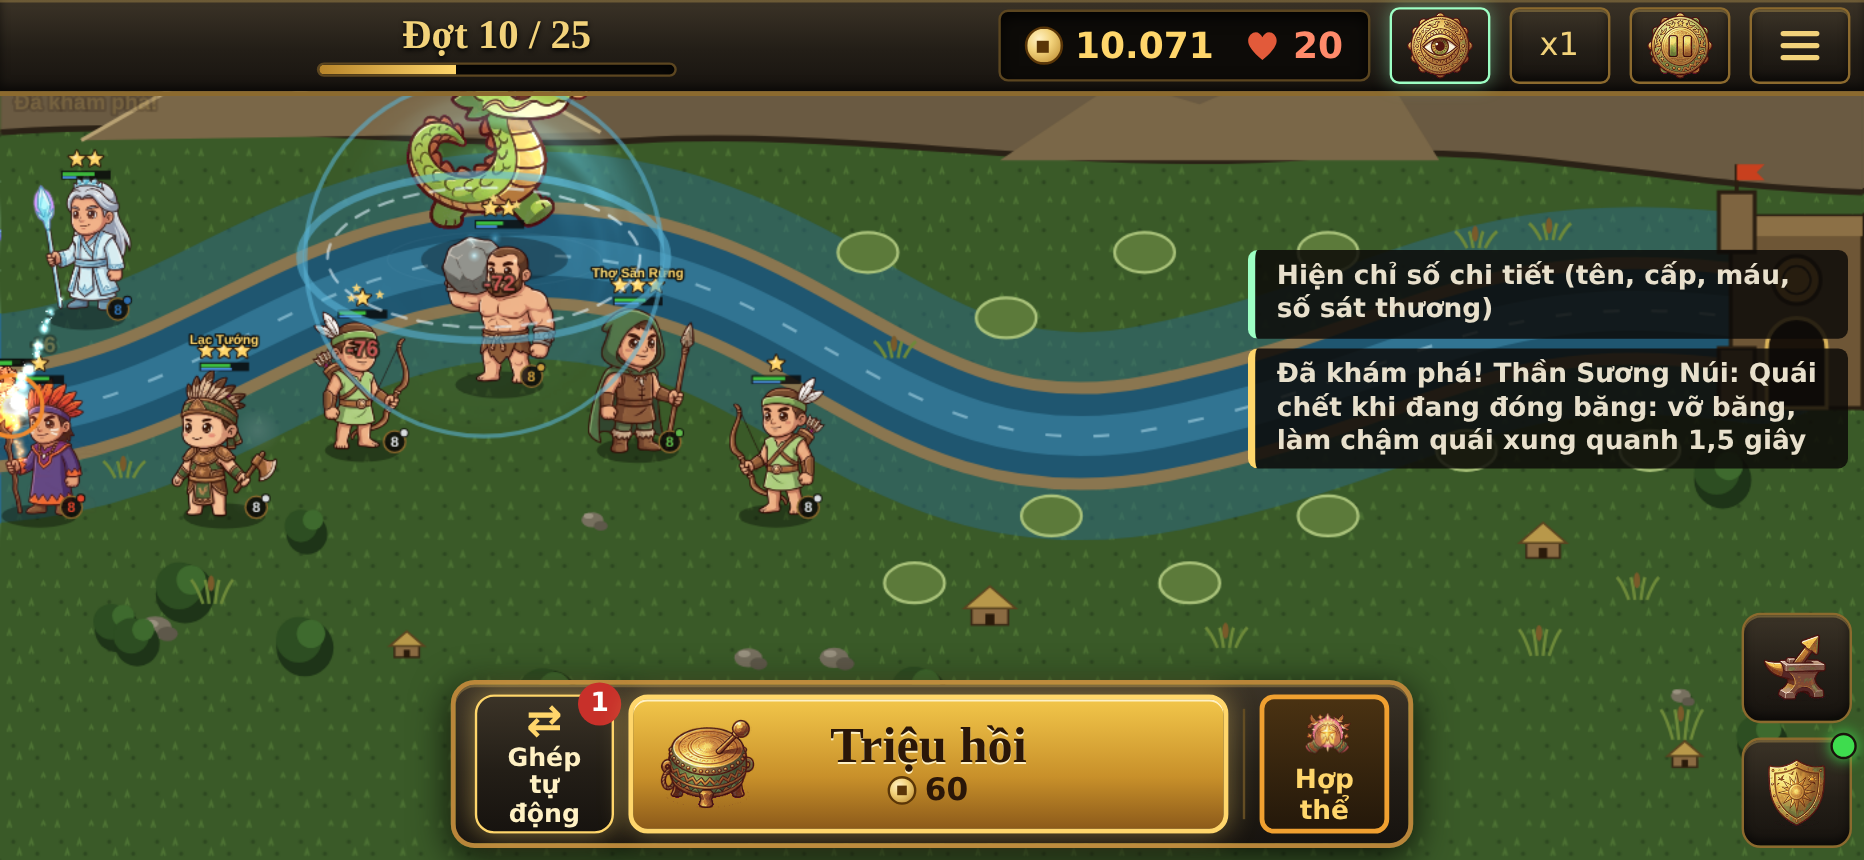
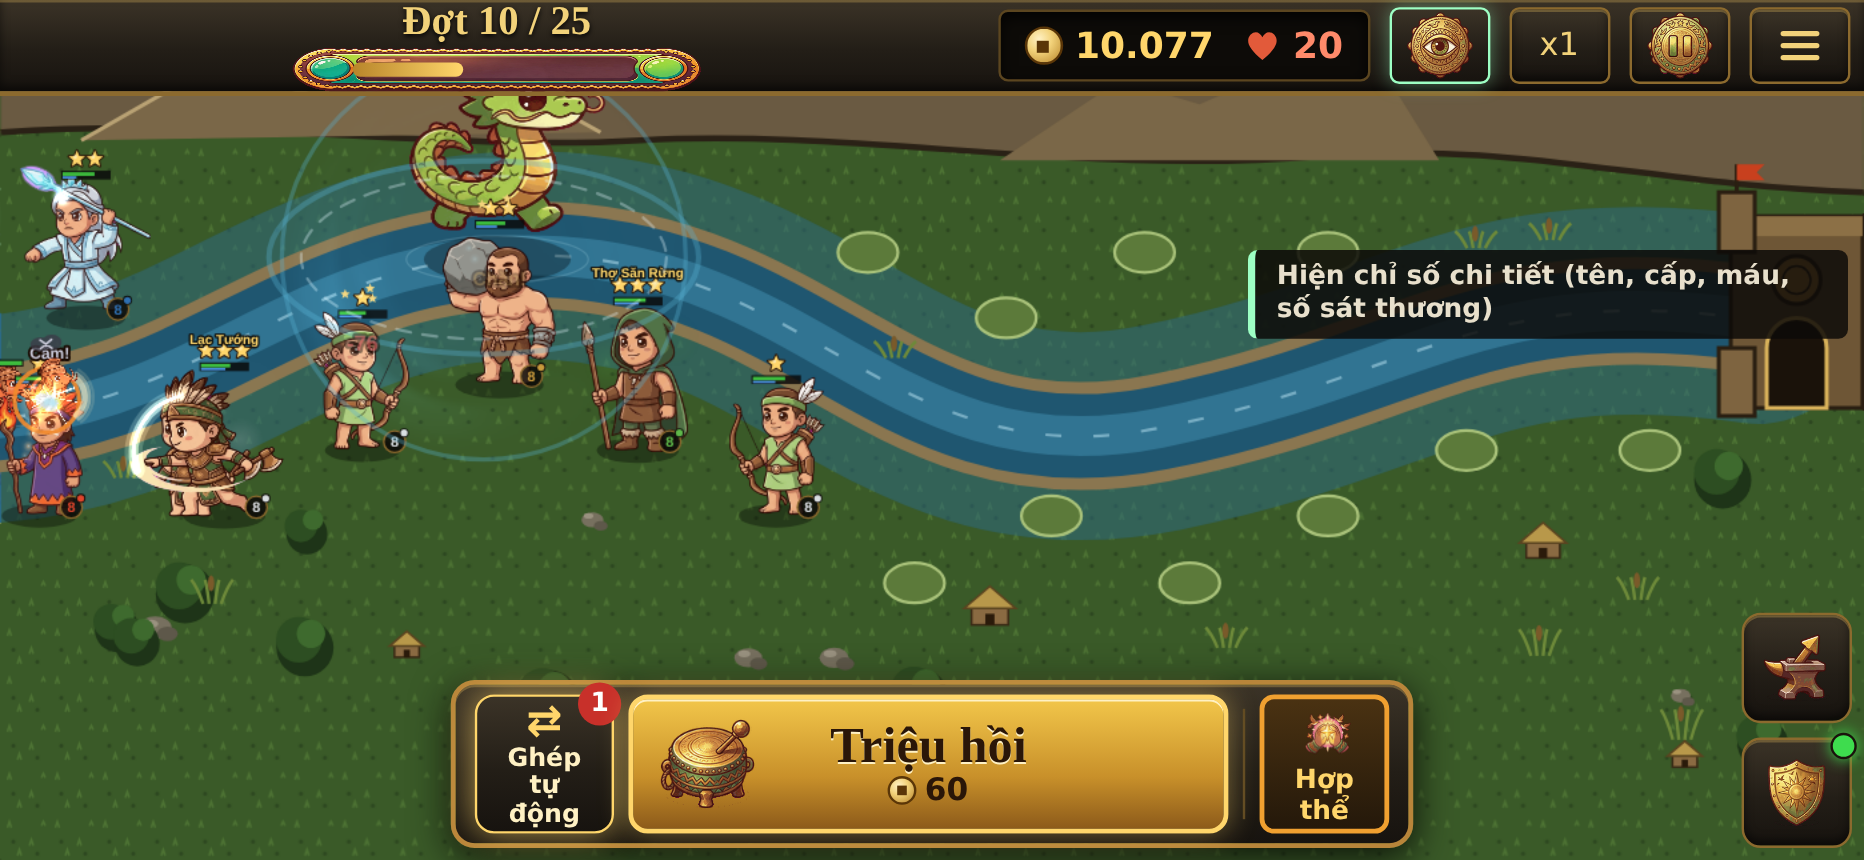
v127: drum-style UI frames — menu key art, main button, toggles, wave bar, player plate, mode cards, hero portrait frame
Claude-Session: https://claude.ai/code/session_017MbeA6iwMaSCfNrZ9EBWDN

Changed region(s): [[0.1245, 0.0, 0.3734, 0.5442], [0.6534, 0.393, 0.9957, 0.5442], [0.0, 0.1814, 0.1556, 0.6047]]

diff --git a/js/ui.js b/js/ui.js
@@ -217,7 +217,7 @@ class UI {
     game.known = new Set(this.save.secrets || []);
     this.bind();
     this.buildSummon();
-    $('#menu-art').innerHTML = svgI(sceneArt('menu'));
+    $('#menu-art').innerHTML = `<img class="keyart" src="${assetSrc('ui/nen-menu.jpg')}" alt="" onerror="this.outerHTML=''">` + svgI(sceneArt('menu'));
     $('#rotate-art').innerHTML = sceneArt('rotate');
     $('#loading').hidden = true;
     this.showMenu();
@@ -392,7 +392,7 @@ class UI {
     const short = (n) => (n >= 1000 ? (n / 1000).toFixed(n >= 10000 ? 0 : 1).replace('.', ',') + 'k' : n);
     $('#menu-res').innerHTML = `<span title="Ngân khố: bạc thưởng sau mỗi trận, dùng mua tướng Tím / Vàng, Thần Khí, đồ trước trận — không dùng được trong trận"><small class="pr-l">Ngân khố</small>${bac(1)} <b style="color:#E4ECF4">${fmt(s.kho || 0)}</b></span>`;
     if (0) $('#menu-res').innerHTML = `<span title="Tổng vàng đã kiếm qua mọi trận (vàng trong trận luôn bắt đầu từ ${CONFIG.startGold})"><small class="pr-l">Tổng vàng đã kiếm</small>${coin(1)} ${short(s.lifeGold)}</span><span title="Linh Chi đã hái">🌿 ${short(s.lifeHerbs)}</span><span title="Ngân khố: vàng thưởng sau mỗi trận thắng, dùng mua đồ / tướng trước trận"><small class="pr-l">Ngân khố</small>${coin(1)} <b style="color:#FFD66B">${fmt(s.kho || 0)}</b></span>`;
-    $('#menu-art').innerHTML = svgI(sceneArt('menu'));
+    $('#menu-art').innerHTML = `<img class="keyart" src="${assetSrc('ui/nen-menu.jpg')}" alt="" onerror="this.outerHTML=''">` + svgI(sceneArt('menu'));
     const g0 = this.game, live = g0.started && !g0.over && (!g0.won || g0.endless);
     const run = !live && s.run;
     const lvN = live ? g0.level : run ? run.level : 0, wN = live ? g0.wave : run ? run.wave : 0, endl = live ? g0.endless : run && run.endless;
@@ -679,10 +679,10 @@ class UI {
     $('#modes').innerHTML = `<div class="screen" style="z-index:auto">
       <div class="scr-head metal"><button class="xbtn metal" data-act="mode-close" aria-label="Quay lại">${ICON.back}</button><h1 class="ttl">Chọn chế độ</h1><div class="sp"></div></div>
       <div class="md-body">
-        <button class="md-card metal" data-act="mode-pick" data-k="camp"><span class="md-ic">⚔</span><b>Phó Bản</b>
+        <button class="md-card metal" data-act="mode-pick" data-k="camp" style="background-image:linear-gradient(90deg,#1A1008f0 35%,#1A100855),url('${assetSrc('maps/nen-thanh.jpg')}')"><span class="md-ic"><img src="${assetSrc('ui/ui-menu-1-1.png')}" alt="⚔"></span><b>Phó Bản</b>
           <small>Chiến dịch theo chương truyền thuyết. Mỗi ải số đợt cố định, có boss, đạt 1–3 sao, thắng nhận Ngân khố.</small>
           <span class="md-st">★ ${total} / ${LEVELS.length * 3} · đã mở ${s.unlocked}/${LEVELS.length} ải</span></button>
-        <button class="md-card metal endl" data-act="mode-pick" data-k="endless"><span class="md-ic">♾</span><b>Vô Tận</b>
+        <button class="md-card metal endl" data-act="mode-pick" data-k="endless" style="background-image:linear-gradient(90deg,#0A1A24f0 35%,#0A1A2455),url('${assetSrc('maps/nen-bien.jpg')}')"><span class="md-ic"><img src="${assetSrc('ui/ui-tran-1-3.png')}" alt="♾"></span><b>Vô Tận</b>
           <small>Chọn một bản đồ đã mở, giữ thành mãi mãi. Quái mạnh dần, boss mỗi 10 đợt, đổi bộ quái liên tục. Đua bảng xếp hạng.</small>
           <span class="md-st">Kỷ lục: đợt ${best}</span></button>
       </div></div>`;
@@ -777,7 +777,7 @@ class UI {
         ${this.cloudRow()}
         <div class="tg metal"><div><b>Xoá tiến trình</b><small>Xoá sao và các ải đã mở trên máy này</small></div>
           <button class="btn metal" style="margin-left:auto;color:#FFB08A;border-color:#C8401E" data-act="wipe">${this.wipeArmed ? 'Bấm lần nữa để xoá' : 'Xoá'}</button></div>
-        <div class="note" style="text-align:center">Núi Cao Nước Dâng · Phiên bản 126 · ${typeof CLOUD !== 'undefined' && CLOUD.enabled ? 'Tiến trình lưu trên máy và đám mây' : 'Tiến trình lưu trên trình duyệt của bạn'}</div>
+        <div class="note" style="text-align:center">Núi Cao Nước Dâng · Phiên bản 127 · ${typeof CLOUD !== 'undefined' && CLOUD.enabled ? 'Tiến trình lưu trên máy và đám mây' : 'Tiến trình lưu trên trình duyệt của bạn'}</div>
       </div></div>`;
   }
 
@@ -1077,7 +1077,7 @@ class UI {
     const total = g.levelWaves;
     this.setText('#tb-wave', (g.endless ? `Đợt ${g.wave} · Vô tận` : `Đợt ${g.wave} / ${total}`) + (g.hard ? ' · 🔥 Khó' : ''));
     const prog = g.waveActive && g.waveTotal ? 1 - (g.spawnQueue.length + g.enemies.length * 0.5) / (g.waveTotal * 1.5) : 0;
-    $('#tb-fill').style.width = `${Math.max(0, Math.min(1, ((g.wave - 1 + Math.max(0, prog)) / total))) * 100}%`;
+    $('#tb-fill').style.width = `${Math.max(0, Math.min(1, ((g.wave - 1 + Math.max(0, prog)) / total))) * 71}%`;
     this.setText('#tb-gold b', fmt(g.gold));
     $('#tb-gold').classList.toggle('kho', !!this.prepForge);     // v95: đang tiêu Ngân khố (bạc), không phải vàng trận
     this.setText('#tb-lives b', g.lives);

diff --git a/index.html b/index.html
@@ -13,7 +13,7 @@
   <title>Núi Cao Nước Dâng</title>
   <link rel="preconnect" href="https://fonts.googleapis.com">
   <link rel="stylesheet" href="https://fonts.googleapis.com/css2?family=Alegreya+SC:wght@700;800&family=Alegreya+Sans:wght@400;500;700;800&display=swap">
-  <link rel="stylesheet" href="css/style.css?v=126">
+  <link rel="stylesheet" href="css/style.css?v=127">
 </head>
 <body>
 <!--BODY-->
@@ -95,7 +95,7 @@
           <button id="btn-settings" class="mc-btn metal"><svg viewBox="0 0 20 20"><circle cx="10" cy="10" r="3" fill="none" stroke="currentColor" stroke-width="1.8"/><path d="M10 2v3M10 15v3M2 10h3M15 10h3M4.3 4.3l2.1 2.1M13.6 13.6l2.1 2.1M4.3 15.7l2.1-2.1M13.6 6.4l2.1-2.1" stroke="currentColor" stroke-width="1.8"/></svg>Cài Đặt</button>
           <div class="mc-subs"><button id="btn-menu-codex" class="mc-sub">📖 Bách khoa</button><button id="btn-ranks" class="mc-sub">🏆 Xếp hạng</button></div>
         </nav>
-        <div class="ver">Phiên bản 126</div>
+        <div class="ver">Phiên bản 127</div>
       </div>
 
       <div id="story" class="overlay" hidden></div>
@@ -131,19 +131,19 @@
       el.textContent = 'Lỗi: ' + (e.message || e.error) + (e.filename ? ' (' + e.filename.split('/').pop() + ':' + e.lineno + ')' : '');
     });
   </script>
-  <script src="js/art.js?v=126"></script>
-  <script src="js/data.js?v=126"></script>
-  <script src="js/enemies2.js?v=126"></script>
-  <script src="js/game.js?v=126"></script>
-  <script src="js/render.js?v=126"></script>
-  <script src="js/costume.js?v=126"></script>
-  <script src="js/maps.js?v=126"></script>
-  <script src="js/chapters.js?v=126"></script>
-  <script src="js/firebase-config.js?v=126"></script>
-  <script src="js/cloud.js?v=126"></script>
-  <script src="js/ui.js?v=126"></script>
-  <script src="js/vfx.js?v=126"></script>
+  <script src="js/art.js?v=127"></script>
+  <script src="js/data.js?v=127"></script>
+  <script src="js/enemies2.js?v=127"></script>
+  <script src="js/game.js?v=127"></script>
+  <script src="js/render.js?v=127"></script>
+  <script src="js/costume.js?v=127"></script>
+  <script src="js/maps.js?v=127"></script>
+  <script src="js/chapters.js?v=127"></script>
+  <script src="js/firebase-config.js?v=127"></script>
+  <script src="js/cloud.js?v=127"></script>
+  <script src="js/ui.js?v=127"></script>
+  <script src="js/vfx.js?v=127"></script>
   <script>if ('serviceWorker' in navigator && location.protocol === 'https:') navigator.serviceWorker.register('sw.js').catch(() => {});</script>
-  <script src="js/main.js?v=126"></script>
+  <script src="js/main.js?v=127"></script>
 </body>
 </html>

diff --git a/css/style.css b/css/style.css
@@ -1493,3 +1493,19 @@ body { overflow: hidden; }
 .mc-sub .uimg.sub { width: 20px; height: 20px; vertical-align: -5px; margin-right: 4px; }
 .dk-summon .uimg.sm { position: absolute; left: 10px; top: 50%; transform: translateY(-50%); width: 42px; height: 42px; }
 .dk-card.legend img.asc-ic { position: static; width: 26px; height: 26px; object-fit: contain; margin: 0 auto 1px; }
+/* v127: khung & nền vẽ tay trống đồng (ảnh Pippit) */
+#menu-art { background: #0D0B08; }
+#menu-art img.keyart { position: absolute; inset: 0; width: 100%; height: 100%; object-fit: cover; }
+#menu-art img.keyart + .svgi { display: none; }
+.mc-btn.main { background: url('../assets/ui/khung-nut-chinh.png') center / 100% 100% no-repeat; border: 0; color: #3A1A06; text-shadow: 0 1px 0 #FFE9A8; justify-content: center; }
+.mc-btn.main .uimg.mc { display: none; }
+.seg button { background: url('../assets/ui/nut-bac.png') center / 100% 100% no-repeat; border: 0; color: #3A2A1A; }
+.seg button.on { background: url('../assets/ui/nut-vang.png') center / 100% 100% no-repeat; border: 0; color: #3A1A06; }
+.tb-prog { width: 170px; height: 18px; border-radius: 0; overflow: visible; position: relative; background: url('../assets/ui/thanh-tien-do.png') center / 100% 100% no-repeat; box-shadow: none; border: 0; }
+.tb-prog i { position: absolute; left: 14.5%; top: 31%; height: 38%; border-radius: 4px; max-width: 71%; }
+.pl-box { background: url('../assets/ui/khung-nguoi-choi.png') left center / 100% 100% no-repeat; border: 0; box-shadow: none; height: 56px; min-width: 240px; padding: 0 26px 0 10px; gap: 30px; border-radius: 0; }
+.pl-box .av { width: 38px; height: 38px; border: 0; background: transparent; }
+.ro-pic { position: relative; overflow: visible; background: radial-gradient(circle at 50% 60%, #6A3A18, #2A160A 75%); }
+.ro-pic::after { content: ''; position: absolute; inset: -9px -8px -12px; background: url('../assets/ui/khung-the.png') center / 100% 100% no-repeat; pointer-events: none; }
+.md-card { position: relative; overflow: hidden; background-size: cover; background-position: center; }
+.md-card .md-ic img { width: 64px; height: 64px; display: block; }

diff --git a/sw.js b/sw.js
@@ -1,6 +1,6 @@
 // Service worker: lưu sẵn game để mở lại không cần mạng (trừ lưu đám mây).
 // Đổi VERSION mỗi khi phát hành để máy người chơi tải bản mới.
-const VERSION = 'v126';
+const VERSION = 'v127';
 const CORE = ['./', './index.html', './manifest.webmanifest', './css/style.css', './icons/icon-192.png'];
 self.addEventListener('install', (e) => { e.waitUntil(caches.open(VERSION).then((c) => c.addAll(CORE))); self.skipWaiting(); });
 self.addEventListener('activate', (e) => {

diff --git a/GAMEPLAY.md b/GAMEPLAY.md
@@ -1274,3 +1274,10 @@ Mỗi đòn đánh thường của tướng mang hiệu ứng của hành mình:
 - Quái gen lại đủ dáng đi + đánh: Cua, Cá Mập, Voi Chiến, Cáo, Kỵ Binh. Boss đủ 4 dáng (đi A/B, đánh, nổi giận): Thuồng Luồng, Ngư Tinh, Chằn Tinh, Hà Bá, Ân Vương, Thủy Tinh. Bản đổi màu (Cá Mập Đen, Thiết Kỵ, Chằn Lửa, Tướng Thủy) sinh lại từ ảnh mới (`tools/make-variants.py <mã>`).
 - Nền bản đồ vẽ tay thêm: Rừng, Đồng lúa, Thành, Biển (còn thiếu Sông).
 - Nút trống đồng: Bắt đầu / Dừng, Xem chỉ số, Triệu hồi (trống), Hợp thể; menu chính (Xuất Quân, Anh Hùng, Ấn Phù, Kho Báu, Cài Đặt, Bách khoa, Xếp hạng).
+
+## Phiên bản 127 — Khung giao diện trống đồng (ảnh Pippit)
+- Menu chính: nền tranh vẽ tay (mặt trời trống đồng, thành Phong Châu, sóng); nút Xuất Quân dùng khung đồng có mặt trời + rìu; bảng người chơi dùng khung đồng mặt trời.
+- Nút chọn (Phó bản / Vô tận, Thường / Khó): nút vàng khi chọn, nút bạc khi không chọn.
+- Thanh tiến độ đợt trên thanh trận dùng khung đồng hai ngọc xanh.
+- Màn Chọn chế độ: thẻ Phó Bản / Vô Tận có tranh nền bản đồ và icon vẽ tay.
+- Ảnh tướng lớn ở màn Anh Hùng có khung đồng chạm trổ.
